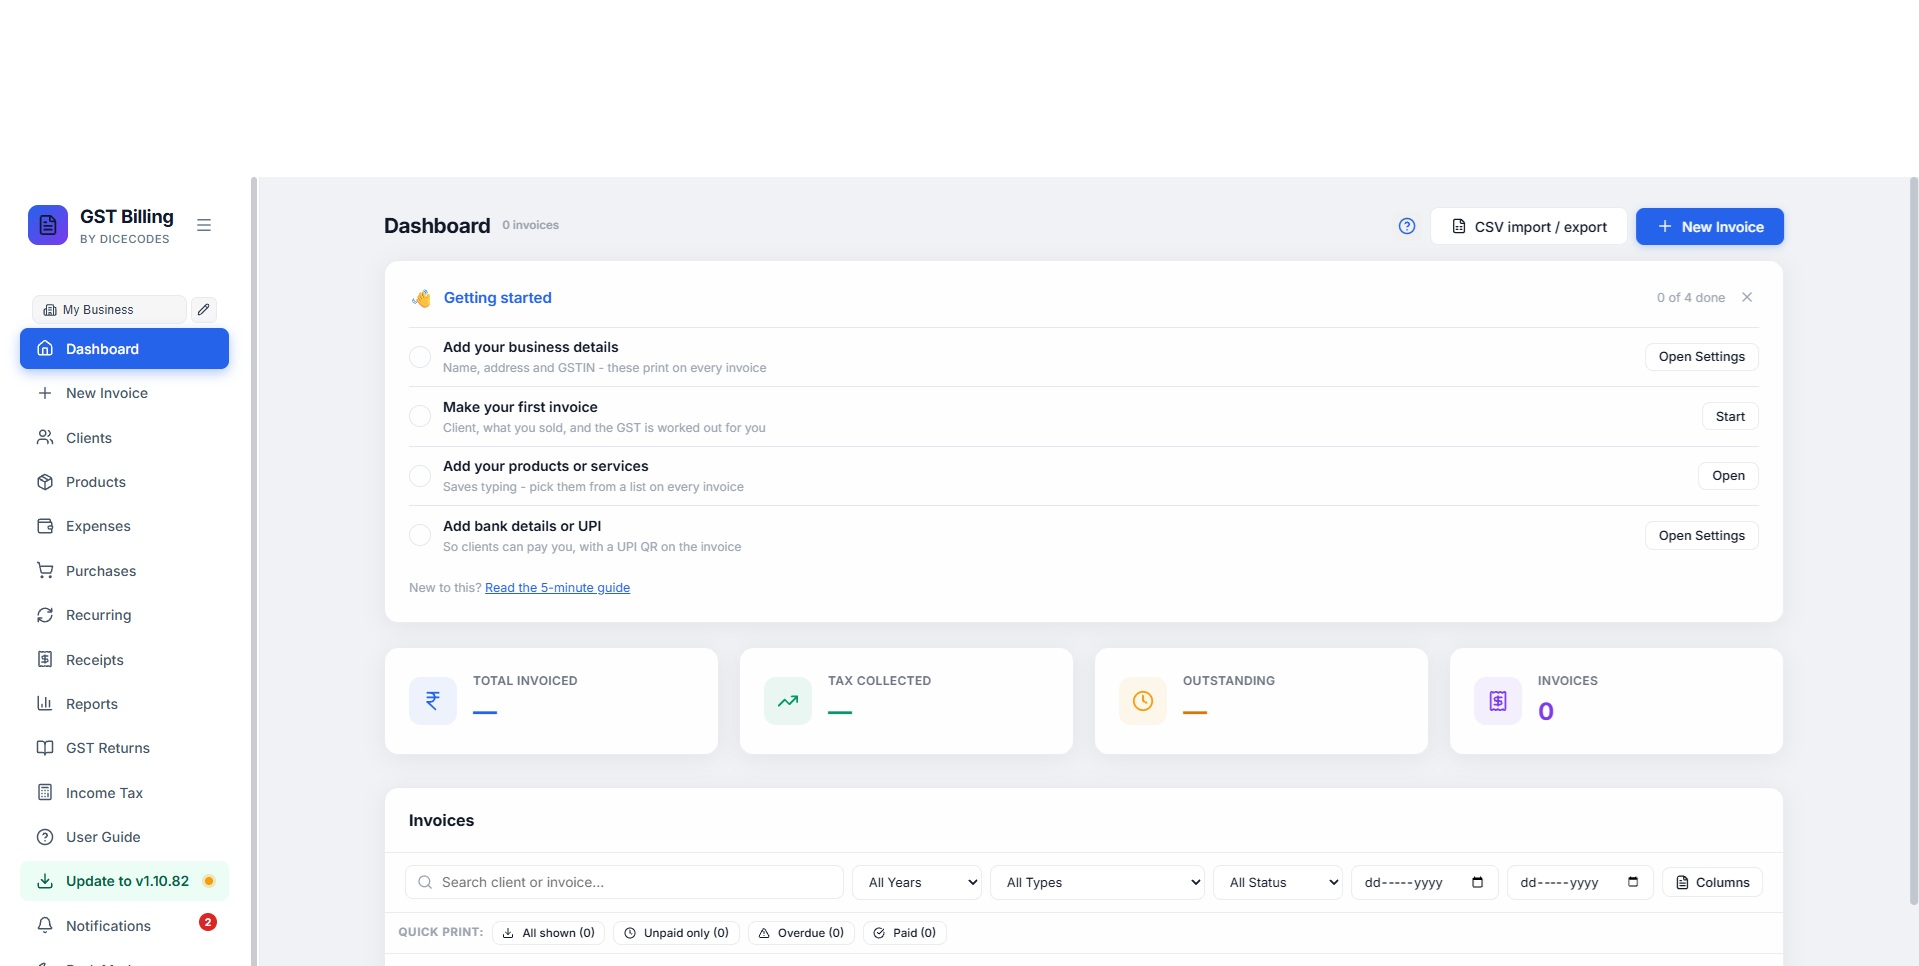
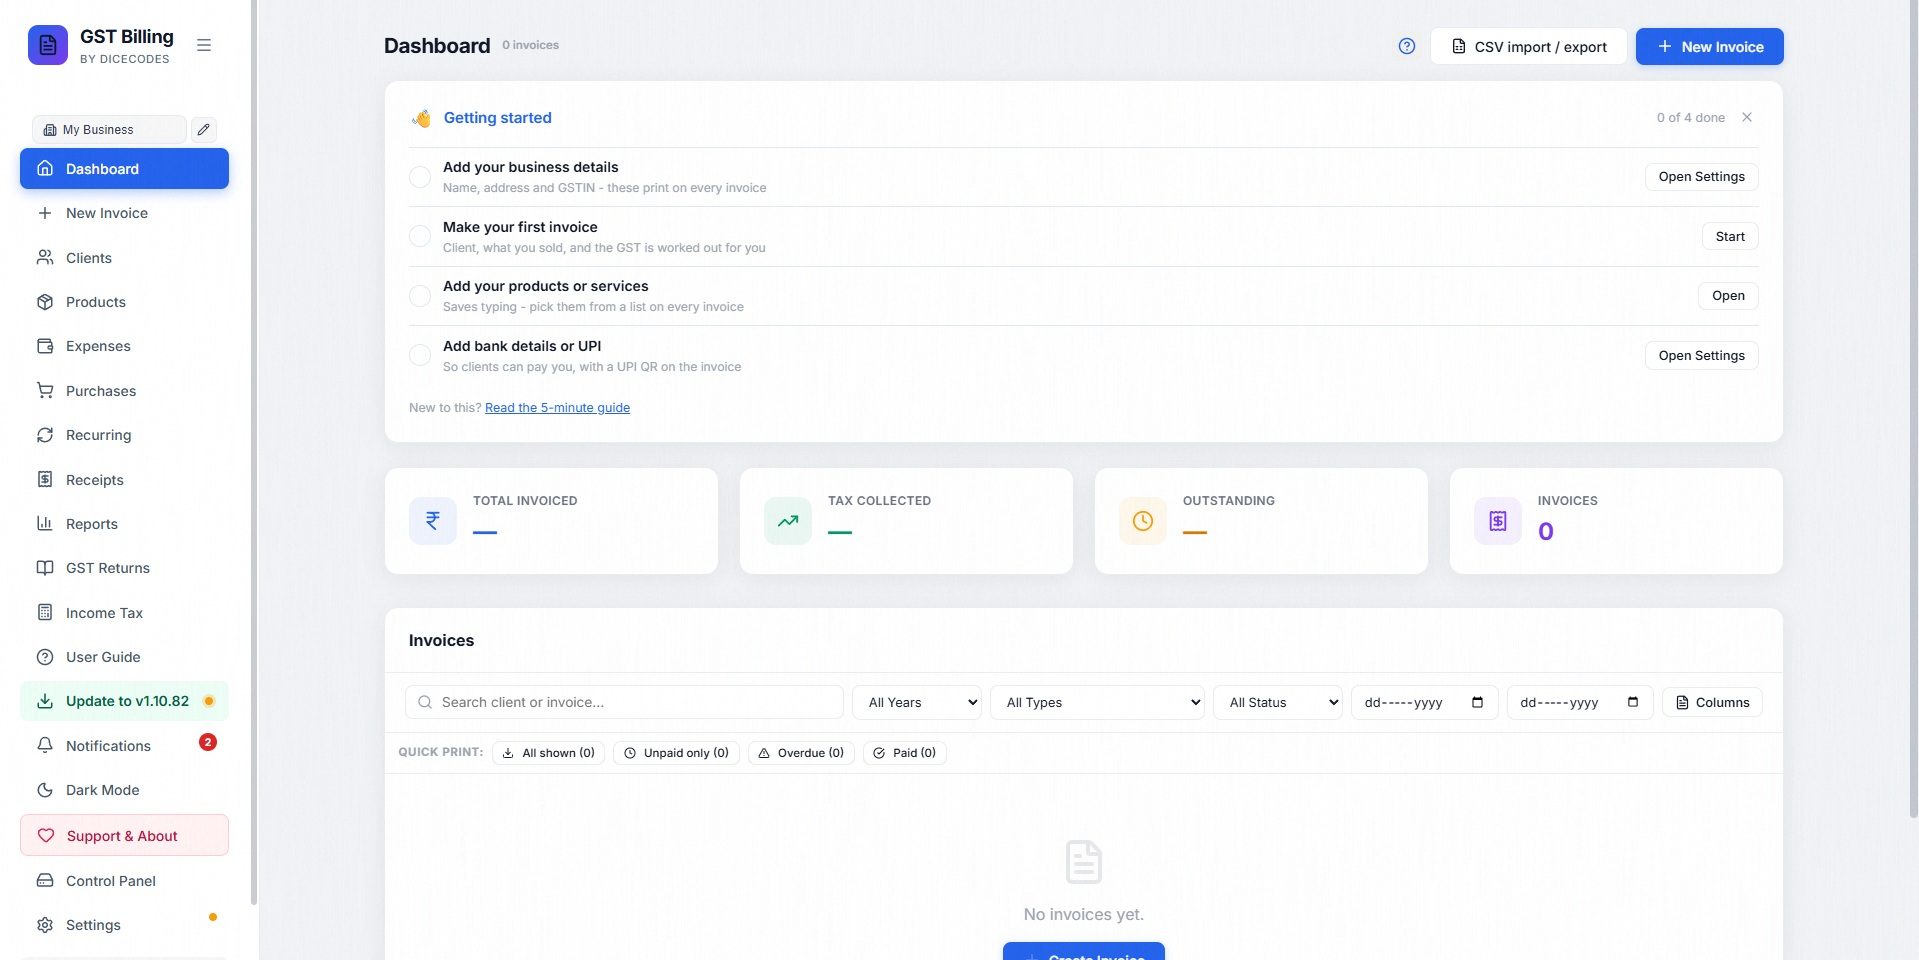
Fix much needed visual changes

diff --git a/app/page.tsx b/app/page.tsx
@@ -22,7 +22,6 @@ import {
 
 export default function BillenzaLanding() {
   const [mobileMenuOpen, setMobileMenuOpen] = useState(false);
-  const [billingCycle, setBillingCycle] = useState<"monthly" | "yearly">("yearly");
   const [openFaq, setOpenFaq] = useState<number | null>(null);
 
   const toggleFaq = (idx: number) => {
@@ -32,7 +31,8 @@ export default function BillenzaLanding() {
   const handleSubscribe = (planTier: string) => {
     // In production, this opens the Razorpay checkout modal or redirects to checkout
     const appUrl = process.env.NEXT_PUBLIC_APP_URL || "https://app.billenza.com";
-    window.location.href = `${appUrl}/signup?plan=${planTier}&billing=${billingCycle}`;
+    const cycle = planTier.includes("yearly") ? "yearly" : "monthly";
+    window.location.href = `${appUrl}/signup?plan=${planTier}&billing=${cycle}`;
   };
 
   return (
@@ -41,9 +41,6 @@ export default function BillenzaLanding() {
       <header className="site-header" id="top">
         <nav className="nav container">
           <a href="#top" className="brand" aria-label="Billenza home">
-            <span className="brand-chip" aria-hidden="true">
-              <Zap size={20} fill="#DCF986" stroke="#1D1D1D" />
-            </span>
             <span className="brand-word">Billenza</span>
           </a>
 
@@ -193,18 +190,13 @@ export default function BillenzaLanding() {
                 <Image
                   src="/billenza-app.jpg"
                   alt="Billenza Invoicing Console Dashboard"
-                  width={1400}
-                  height={800}
+                  width={1920}
+                  height={960}
                   priority
                   className="app-screenshot"
                 />
 
                 {/* Floating Badges */}
-                <div className="float-pill">
-                  <span className="ndot live"></span>
-                  100% GST COMPLIANT
-                </div>
-
                 <div className="float-pill-bottom">
                   <Sparkles size={16} color="#DCF986" />
                   ₹14,80,240 Invoiced &bull; 0 Errors
@@ -430,11 +422,11 @@ export default function BillenzaLanding() {
                   <span style={{ background: "var(--lime)", fontSize: 11, fontWeight: 700, padding: "3px 8px", borderRadius: 6 }}>VERIFIED</span>
                 </div>
                 <div style={{ background: "var(--card)", padding: 16, borderRadius: 12, border: "1px solid var(--line-soft)" }}>
-                  <div style={{ fontSize: 15, fontWeight: 700 }}>Acme Technologies Pvt Ltd</div>
-                  <div style={{ fontSize: 12, color: "var(--gray)", marginTop: 4 }}>GSTIN: 27AABCA1234F1Z5 &bull; Maharashtra (27)</div>
+                  <div style={{ fontSize: 15, fontWeight: 700 }}>Macenza Technologies Pvt Ltd</div>
+                  <div style={{ fontSize: 12, color: "var(--gray)", marginTop: 4 }}>GSTIN: 27AABCA1234F1Z5 &bull; Rajasthan (27)</div>
                   <div style={{ marginTop: 12, display: "flex", gap: 8 }}>
                     <span style={{ background: "#fff", border: "1px solid var(--line)", padding: "4px 8px", borderRadius: 6, fontSize: 11 }}>HDFC Bank</span>
-                    <span style={{ background: "#fff", border: "1px solid var(--line)", padding: "4px 8px", borderRadius: 6, fontSize: 11 }}>UPI ID: acme@hdfc</span>
+                    <span style={{ background: "#fff", border: "1px solid var(--line)", padding: "4px 8px", borderRadius: 6, fontSize: 11 }}>UPI ID: macenza@hdfc</span>
                   </div>
                 </div>
               </div>
@@ -558,25 +550,6 @@ export default function BillenzaLanding() {
             </p>
           </div>
 
-          {/* Pricing Toggle */}
-          <div className="pricing-switch-wrap">
-            <div className="pricing-toggle">
-              <button
-                className={`toggle-btn ${billingCycle === "monthly" ? "active" : ""}`}
-                onClick={() => setBillingCycle("monthly")}
-              >
-                Monthly Billing
-              </button>
-              <button
-                className={`toggle-btn ${billingCycle === "yearly" ? "active" : ""}`}
-                onClick={() => setBillingCycle("yearly")}
-              >
-                Annual Billing
-              </button>
-            </div>
-            <span className="save-badge">SAVE ~17% YEARLY</span>
-          </div>
-
           <div className="plans">
             {/* Plan 1: Monthly */}
             <div className="plan">
@@ -635,7 +608,7 @@ export default function BillenzaLanding() {
 
             {/* Plan 2: Annual Pro (Featured) */}
             <div className="plan featured">
-              <span className="pop">MOST POPULAR &bull; SAVE ₹989</span>
+              <span className="pop">SAVE ~17% YEARLY</span>
               <div className="plan-name">ANNUAL PRO</div>
               <div className="plan-price">
                 ₹4,999

diff --git a/app/globals.css b/app/globals.css
@@ -194,7 +194,7 @@ a {
 }
 
 .brand-word {
-  font-size: 22px;
+  font-size: 26px;
   letter-spacing: -0.03em;
 }
 
@@ -445,7 +445,6 @@ a {
   align-items: center;
   justify-content: space-between;
   padding-bottom: 16px;
-  border-bottom: 1px solid var(--line-soft);
 }
 
 .console-id {
@@ -490,7 +489,6 @@ a {
   width: 100%;
   height: auto;
   display: block;
-  border-radius: 14px;
 }
 
 .float-pill {
